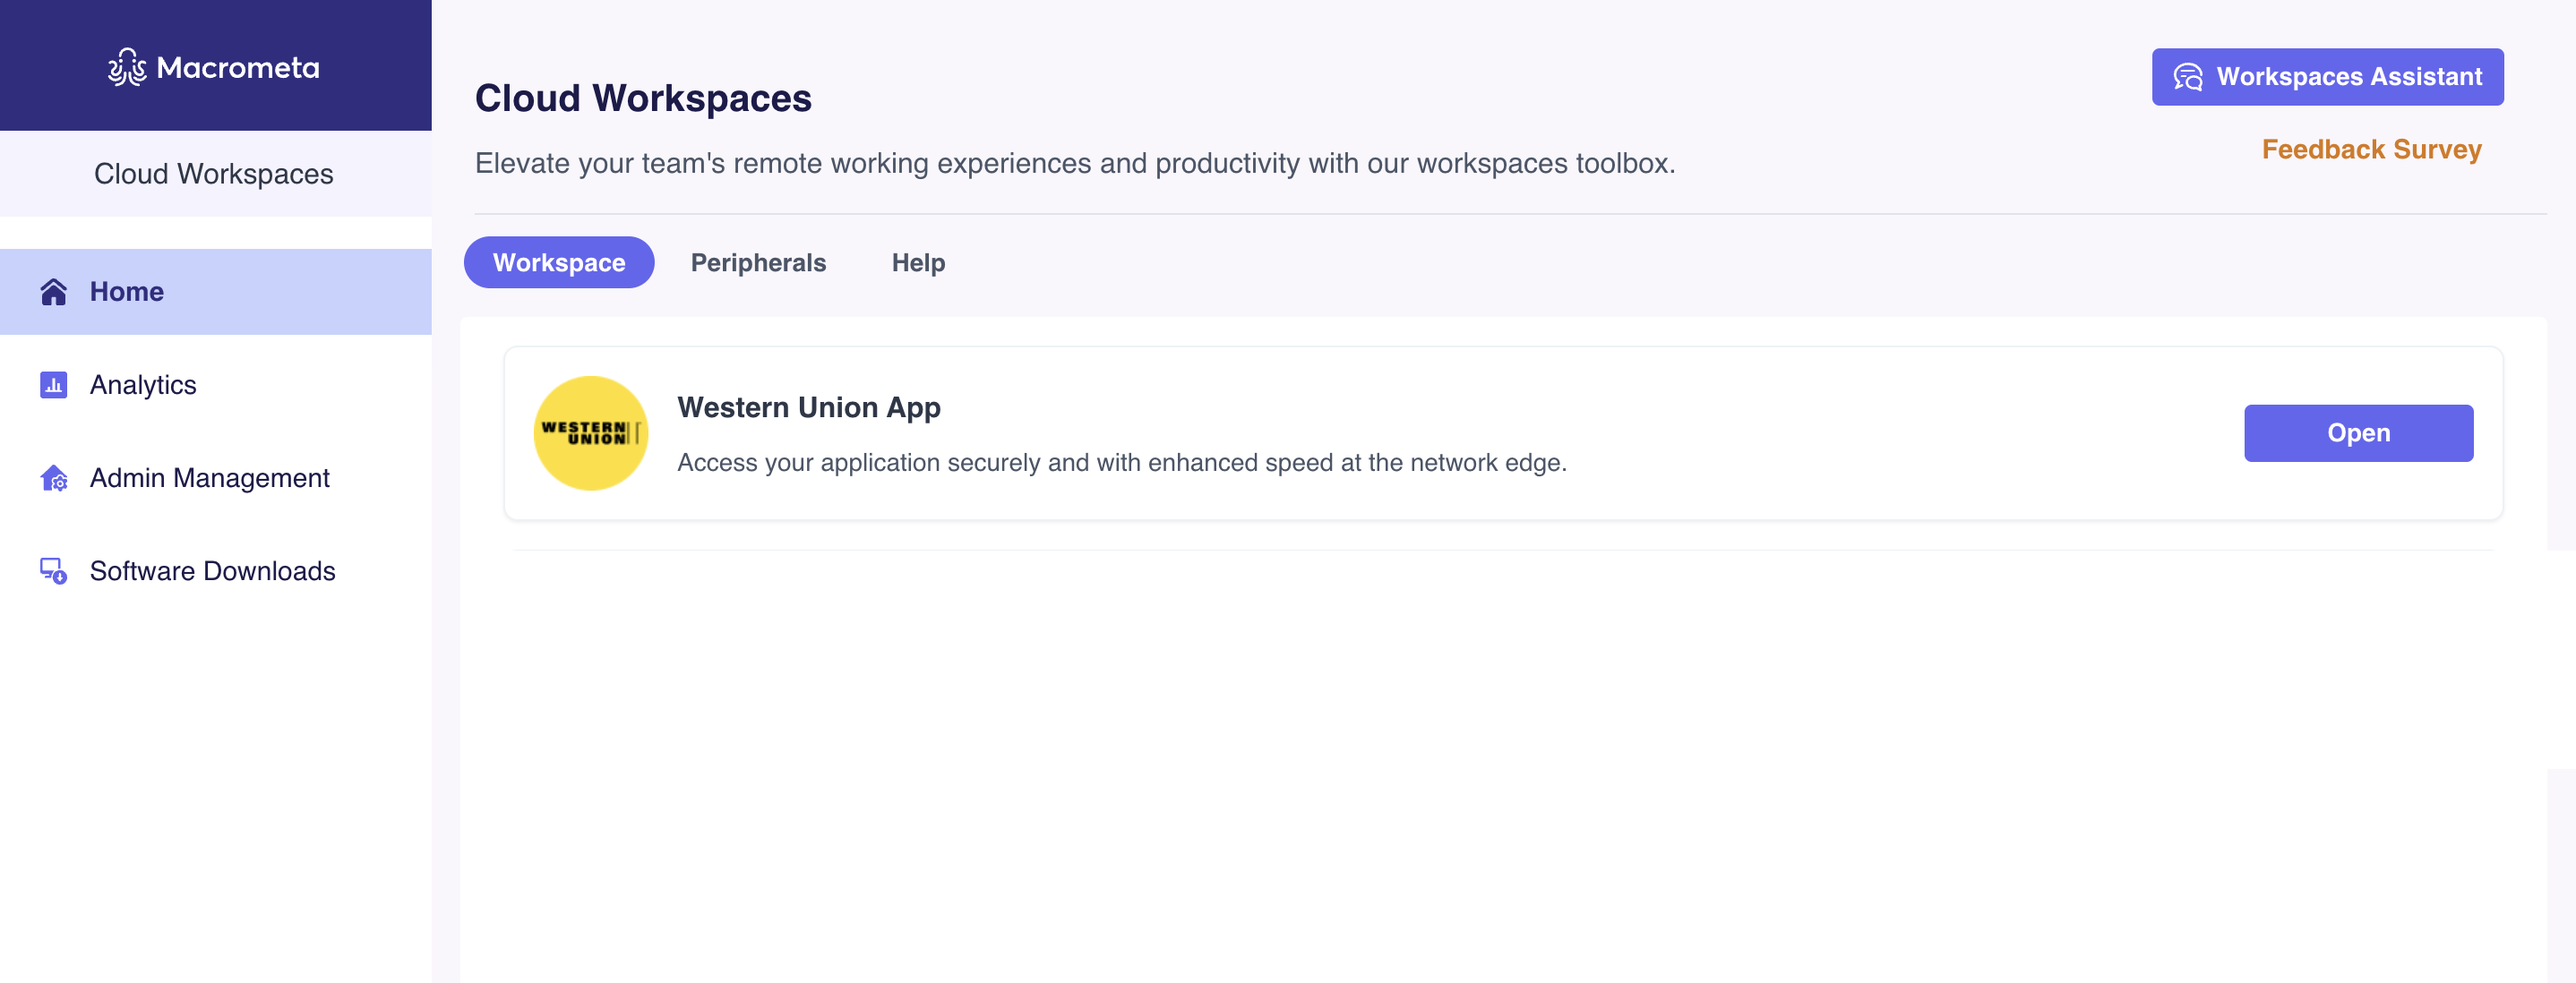
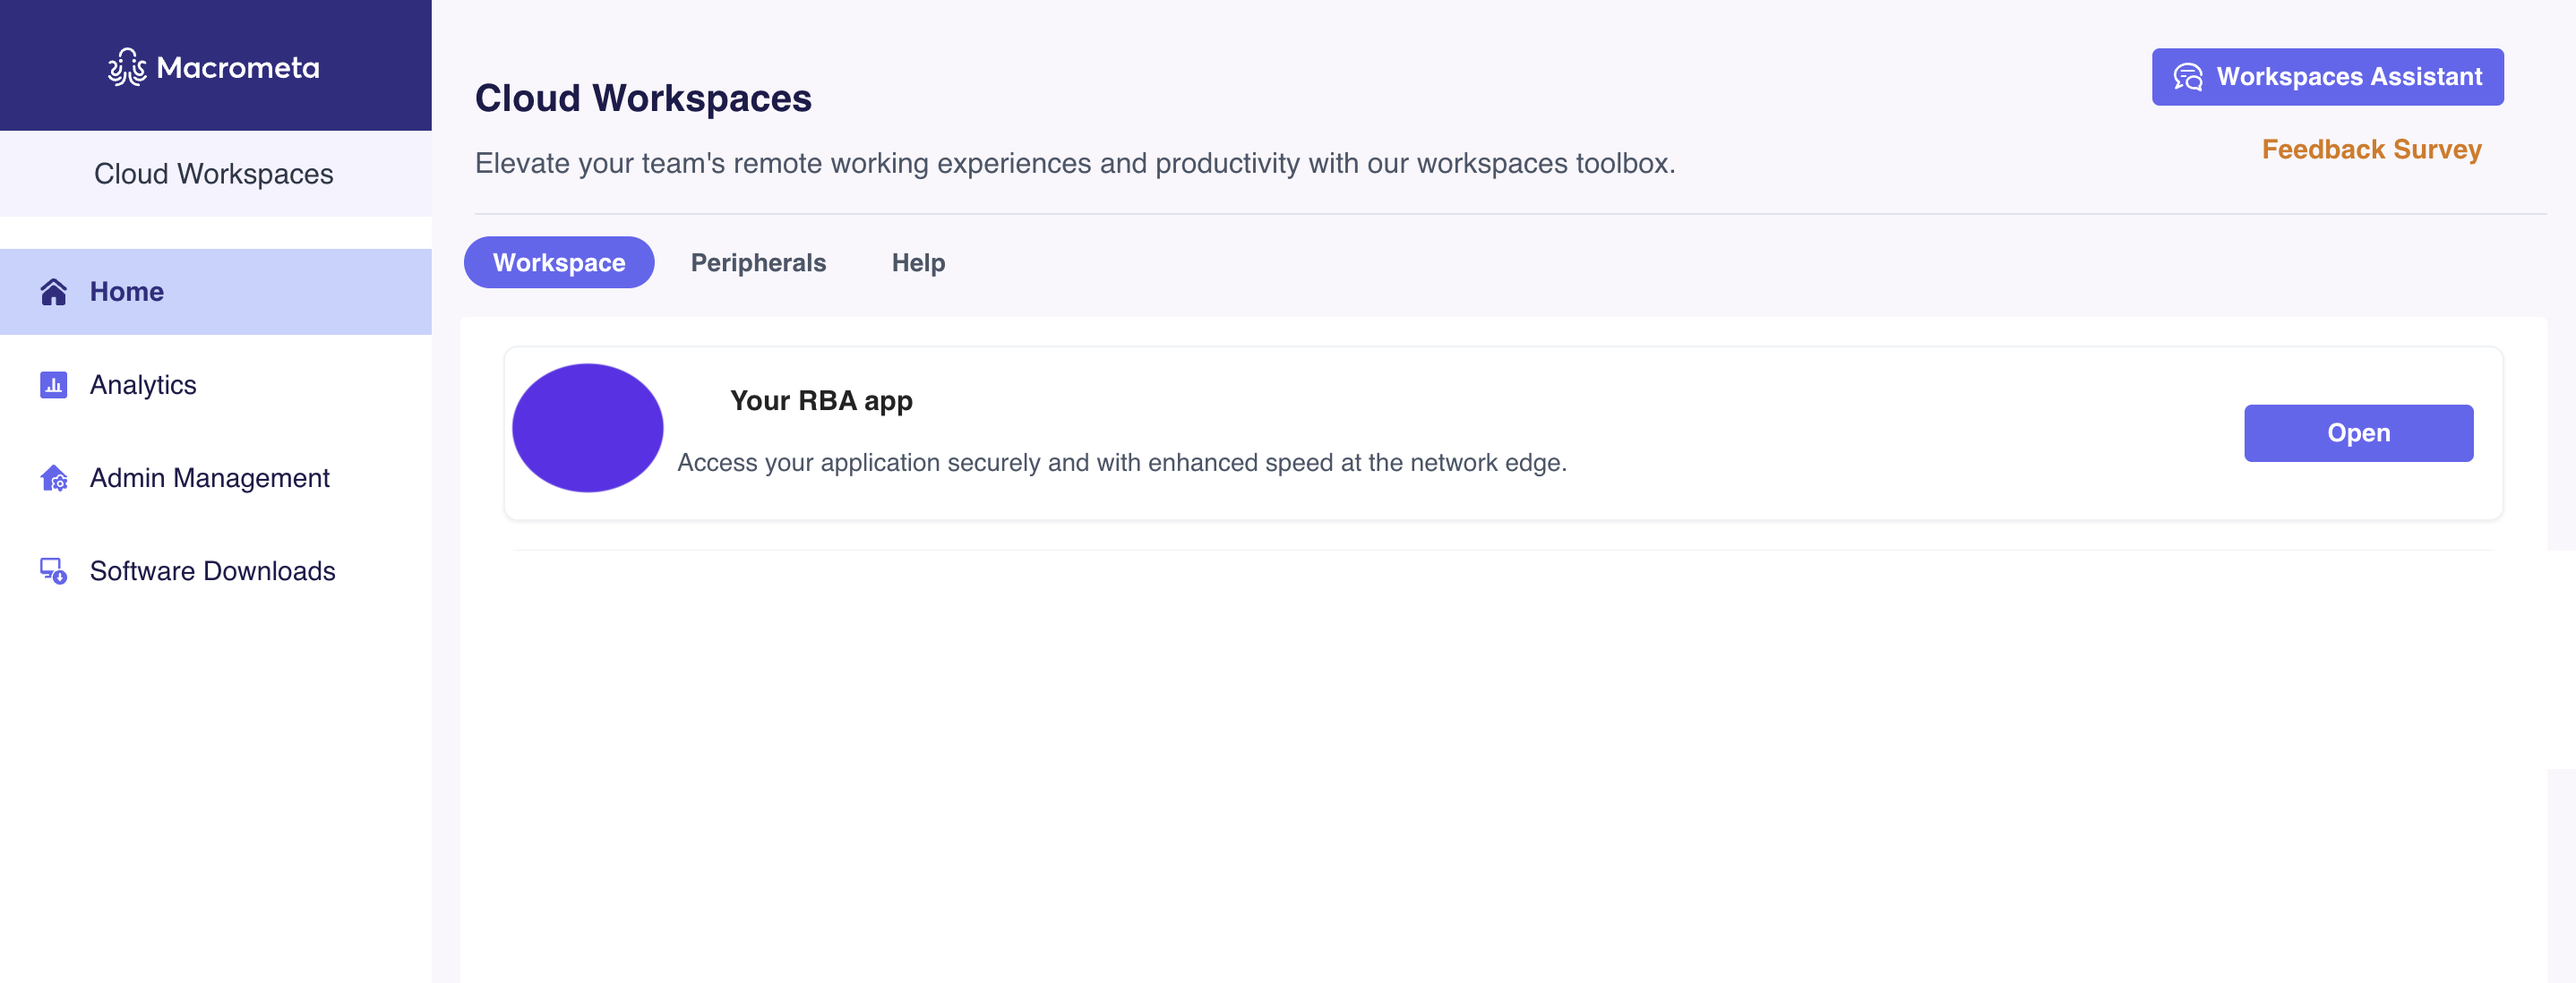
Workspaces changes

Changed region(s): [[0.1857, 0.3716, 0.3713, 0.5264]]

diff --git a/docs/wu-runbook/index.md b/docs/wu-runbook/index.md
@@ -9,14 +9,19 @@ title: Cloud Workspaces Runbook
 
 Macrometa Cloud Workspaces is redefining our approach to remote work and productivity. As a cloud-based virtual environment, it enables effective access to your work tools and business-specific applications directly from your browser. The service includes a suite of tools designed for high performance and security, including remote browser access and remote desktops on the edge.
 
-For Western Union, Cloud Workspaces provides the following key services:
+Cloud Workspaces provides the following key services:
 
-- [**Remote Browser Acceleration (RBA)**](./rba/index.md) - to access the Western Union App for agents.
-- [**Virtual Desktop Interface (VDI)**](./vdi/index.md) - providing remote Windows desktops.
+- [**Remote Browser Acceleration (RBA)**](./solutions/rba/index.md) - for accessing your work apps. 
+- [**Virtual Desktop Interface (VDI)**](./solutions/vdi/index.md) - providing remote Windows desktops.
 
 ## **Objective**
 
-This runbook provides a comprehensive guide on how to use the Western Union App and remote desktops from Cloud Workspaces efficiently. It includes steps for accessing the services and [troubleshooting common issues](./troubleshooting/index.md).
+This runbook provides a comprehensive guide on using the services offered by Cloud Workspaces and includes the following:
+
+- [Accessing the RBA and VDI solutions](./solutions/index.md)
+- [Tips for using these solutions](./solutions/vdi/tips.md)
+- [Troubleshooting some common issues](./troubleshooting/index.md)
+- [Using the Workspaces Assistant](./assistant.md)
 
 ## **Connecting to Workspaces**
 
@@ -31,22 +36,22 @@ Ignore steps 1 and 2 if you are already logged into Cloud Workspaces.
 2. Login with appropriate credentials to your workspace.
 3. After logging in,
    
-     - For first-time users, the **Software Downloads** screen is displayed for you to download the appropriate installer for the service you want to use. Refer to the respective guides for more details on the [VDI](./vdi/index.md) and [RBA](./rba/index.md) installers. Click **Homepage** to proceed to the Workspaces homepage.
+     - For first-time users, it displays the **Software Downloads** screen for you to download the appropriate installer for the subscribed service. Refer to the respective guides for more details on the [VDI](./solutions/vdi/index.md) and [RBA](./solutions/rba/index.md) installers. Click **Homepage** to proceed to the Workspaces homepage.
    
        ![software downloads](/img/runbook-images/software-downloads.png)
 
-     - If you're a returning user, you are automatically redirected to the homepage. The services displayed in your homepage is based on your [user subscription](#workspaces-subscriptions). The homepage below is for users subscribed to RBA and VDI.
+     - If you're a returning user, you are automatically redirected to the homepage. This displays your services based on your [user subscription](#workspaces-subscriptions). The homepage below is for users subscribed to RBA and VDI.
 
         ![vdi-user](/img/runbook-images/vdi-macs.png)
 
 :::note
-- VDI users with only [Universal Client](./vdi/index.md#accessing-vdi) won't see **Software Downloads** and will be redirected to the homepage instead. See [Workspace subscriptions](#workspaces-subscriptions) for more details.
+- VDI users with only [Universal Client](./solutions/vdi/index.md#accessing-vdi) won't see **Software Downloads** and will be redirected to the homepage instead. See [Workspace subscriptions](#workspaces-subscriptions) to learn more.
 - If you missed the installers, click the **Software Downloads** menu from the sidebar.
 :::
 
 ### Account options
 
-1. The sidebar gives you quick access to the **User Guide** and **Logout** options.
+1. The Workspaces sidebar gives you quick access to the **User Guide** and **Logout** options.
 
 2. To **see your username**, click the **user icon** in the top-right corner.
 
@@ -63,25 +68,25 @@ Cloud Workspaces has different tools in its toolbox which are available based on
 The subscriptions determine the options displayed in the **Homepage** and **Software Downloads**.
 :::
 
-- **VDI users**: Users with this subscription can only access the [Windows VDI](./vdi/index.md). After logging into Workspaces, the user has the following homepage:
+- **VDI users**: Users with this subscription can only access the [Windows VDI](./solutions/vdi/index.md). After logging into Workspaces, the user has the following homepage:
 
 ![vdi-user](/img/runbook-images/just-vdi-users.png)
 
 :::note
-The Client available for your VDI may differ. Visit the [VDI documentation](./vdi/index.md#accessing-vdi) for more details.
+The Client available for your VDI may differ. Visit the [VDI documentation](./solutions/vdi/index.md#accessing-vdi) for more details.
 :::
 
-- **RBA users**: Users in this group have the browser subscription and can access the WUPOS application using [RBA](./rba/index.md).
+- **RBA users**: Users in this group have the browser subscription and can access their applications using [RBA](./solutions/rba/index.md).
 
 ![rba-user](/img/runbook-images/just-rba-users.png)
 
-- **VDI and RBA users**: These users have full access to the Workspaces toolbox, which includes the WUPOS application and the Windows VDI.
+- **VDI and RBA users**: These users have full access to the Workspaces toolbox, which includes their applications and the Windows VDI.
 
 ![vdi-user](/img/runbook-images/vdi-macs.png)
 
 **Next steps:**
 - For admins, visit the [Workspace Management guide](workspace-management.md) to configure your domain.
-- For WUPOS users, continue with the steps highlighted in [ Using RBA to access the Western Union App](./rba/index.md).
-- VDI users can continue with the [setup process](./vdi/index.md) to start using remote desktops.
+- Start [using RBA to access your applications](./solutions/rba/index.md).
+- VDI users can continue with the [setup process](./solutions/vdi/index.md) to start using remote desktops.
 - Get more information about your Workspaces environment with our AI chatbot.
 

diff --git a/docs/wu-runbook/solutions/rba/index.md b/docs/wu-runbook/solutions/rba/index.md
@@ -1,9 +1,10 @@
 ---
 sidebar_position: 2
-title:  Using RBA to access the Western Union App
+title:  Using RBA to access work applications
+sidebar_label: Using RBA
 ---
 
-WUPOS Agents can access the Western Union app using Remote Browser Acceleration (RBA) from Cloud Workspaces.  RBA improves performance by deploying applications at the network edge, ensuring improved speed and responsiveness.
+RBA improves performance by deploying applications at the network edge, ensuring improved speed, responsiveness and better user experiences for tasks.
 
 ### **Prerequisites**
 
@@ -13,7 +14,7 @@ WUPOS Agents can access the Western Union app using Remote Browser Acceleration 
 
 ### **Download the RBA Installer**
 
-To use the Western Union App with RBA, the following installation steps is required to configure the necessary drivers:
+To access and use your work apps with RBA, follow these installation steps to configure the necessary drivers:
 
 :::tip
 The RBA installer also installs a Chrome browser on your device. You must access RBA using this browser to ensure RBA functions properly. For devices with the supported browser already installed, the RBA installer skips this browser installation.
@@ -27,21 +28,23 @@ The RBA installer also installs a Chrome browser on your device. You must access
 
 3. After installation is complete, click **Finish**. 
 
-### Accessing the Western Union App
+### Accessing your Apps
 
-After setting up the RBA installer and restarting your device, continue with the following steps to access the Western Union app from Workspaces:
+After setting up the RBA installer and restarting your device, continue with the following steps to access your applications from Workspaces:
 
 1. Log in to Cloud Workspaces using the newly installed Chrome browser. If you’re not already on the homepage, click **Go Home**. The tools available in your workspace may vary based on your [user subscription](../index.md#workspaces-subscriptions).
 
-    ![home-page](/img/runbook-images/rba.png)
+    ![rba-user](/img/runbook-images/just-rba-users.png)
 
-2. From the **Workspaces** homepage, click **Open** for the **Western Union App**. The web app opens up in a new tab within the remote browser.
+2. From the **Workspaces** homepage, click **Open** for the **Your RBA App**. The web app opens up in a new tab within the remote browser.
 
-    ![wu](/img/runbook-images/western-union.png)
-
-3. The navigation controls in the top-right corner of the screen allow you to navigate back and forth within the Western Union app to complete your tasks. These controls also provide options to refresh and close the web app.
+3. The navigation controls in the top-right corner of the screen allow you to navigate back and forth within your apps to complete your tasks. These controls also provide options to refresh and close the web app.
    
     ![rba-controls](/img/runbook-images/rba-controls.png)
+
+:::note
+**Your RBA app** in this guide is a placeholder for your work apps.
+:::
    
 **Next steps:**
 - [Configure the supported peripheral devices](validating-peripherals.md) to ensure they're functional for use within RBA.

diff --git a/docs/wu-runbook/troubleshooting/index.md b/docs/wu-runbook/troubleshooting/index.md
@@ -13,7 +13,7 @@ This error can have different causes depending on the service you are trying to 
 - **Non-Persistent VDI and RBA users**: This error typically occurs when all available sessions are in use. Wait for a session to free up and try again later.
 
 ### Why am I unable to use my peripheral devices (printer card reader, e.t.c)?
-Configure your peripheral devices using the Peripheral Validator for it to be automatically detected and functional for use in RBA. Ensure to [validate your devices](../rba/validating-peripherals.md) before use.
+Configure your peripheral devices using the Peripheral Validator for it to be automatically detected and functional for use in RBA. Ensure to [validate your devices](../solutions/rba/validating-peripherals.md) before use.
 
 ### Why can't I launch VDI from my Windows 11?
 Some antiviruses like BitDefender might prevent the execution of the Windows PowerShell script. To fix this, follow any of these solutions:
@@ -21,14 +21,14 @@ Some antiviruses like BitDefender might prevent the execution of the Windows Pow
 - Temporarily turn off this antivirus and retry launching VDI.
 - Whitelist the powershell script - `RDPLauncher.ps1`
 
-### Why do I see an error screen when reconnecting to WUPOS after being disconnected from an RBA session?
+### Why do I see an error screen when reconnecting to my apps after being disconnected from an RBA session?
 
 If you are disconnected from an RBA session and reconnect right away, you might be assigned the same session while the pod is still restarting. This will result in an error screen like this:
 
 ![rba-login-error](/img/runbook-images/rba-login-error.png)
 
 
-To fix this, reload the page to successfully launch the WUPOS RBA pod in your local browser.
+To fix this, reload the page to successfully launch the app in your local browser.
 
 
 ### Why am I getting an error whenever I try to initiate a remote windows VDI session?

diff --git a/docs/wu-runbook/solutions/vdi/index.md b/docs/wu-runbook/solutions/vdi/index.md
@@ -1,6 +1,6 @@
 ---
 sidebar_position: 5
-title:  Using VDI on Cloud Workspaces
+title:  Using VDI
 ---
 
 
@@ -29,11 +29,12 @@ These remote desktops support the following key peripherals:
 You can access VDI on Cloud Workspaces through two methods:
 
 1. **[Universal Client](vdi-universal-client.md):** The universal client provides access to the remote Windows desktop directly through a web browser. This method is accessible to all users, regardless of their operating system.
-2. **[Native Client](vdi-native-client.md):** The native client allows you to connect to the remote Windows desktop using RDP client on your Windows machine. This option is exclusively available for Windows devices.  
+2. **[Native Client](vdi-native-client.md):** The native client allows you to connect to the remote Windows desktop using RDP client on your Windows and Mac operating systems.
 
-    ![vdi-user](/img/runbook-images/vdi-windows.png)
+ Accessing VDI via the native client offers you more functionality and flexibility than the universal client. For example, the native client allows you to access more peripheral devices, enabling a smoother and flexible user experience.
 
-:::tip
-On Windows devices, both the Universal Client and Native Client buttons are available. On Linux and Mac devices, only the Universal Client button is displayed.
-::: 
+   ![vdi-user](/img/runbook-images/just-vdi-users.png)
+
+## Next
+
 The next sections will guide you on how to connect to the VDI via [Universal Client](vdi-universal-client.md) or [Native Client](vdi-native-client.md).

diff --git a/docs/wu-runbook/solutions/vdi/tips.md b/docs/wu-runbook/solutions/vdi/tips.md
@@ -1,0 +1,22 @@
+---
+sidebar_position: 10
+title:  Tips for boosting VDI performance
+sidebar_label: Tips for using VDI
+---
+
+When using the Chrome Here are some recommendations to ensure optimum performance when using your Virtual desktops:
+
+## Hardware acceleration settings
+
+Adjust your hardware acceleration settings to boost Chrome performance and achieve faster page loading times. Hardware acceleration reduces CPU workload by offloading CPU-intensive tasks to idle hardware components like the GPU (graphic designer).
+
+To do this:
+1. Type **chrome://settings/system** in the Chrome address bar
+1. Disable **"Use graphics acceleration when available"**
+
+## Configure tab management
+
+Chrome offers numerous performance controls to proactively detect and fix issues. One of these controls is the memory saver, which frees up resources for active tabs. To do this:
+
+1. Type **chrome://settings/performance** in the Chrome address bar
+2. Enable **"Memory Saver,"** which suspends inactive tabs. This memory saver offers three savings levels, with the maximum level labeling tabs inactive after a shorter period.

diff --git a/docs/wu-runbook/workspace-management.md b/docs/wu-runbook/workspace-management.md
@@ -34,7 +34,7 @@ Only qualified admins with expertise in Active Directory should perform this tas
 
 ## Managing Desktops and Users
 
-The **Desktops and users** tab enables admins to configure and manage desktop assignments in [VDI](./vdi/index.md). 
+The **Desktops and users** tab enables admins to configure and manage desktop assignments in [VDI](./solutions/vdi/index.md). 
 ![desktop and users tab](/img/runbook-images/desktop-and-users.png)
 
 Admins can assign users to hosts, change assignments, or unassign users as needed. Additionally, they can search for users or hosts and filter hosts based on their assignment status or host type.

diff --git a/docs/wu-runbook/solutions/index.md b/docs/wu-runbook/solutions/index.md
@@ -1,0 +1,5 @@
+---
+sidebar_position: 3
+title: Workspaces Solutions
+sidebar_label: Workspaces Solutions
+---
